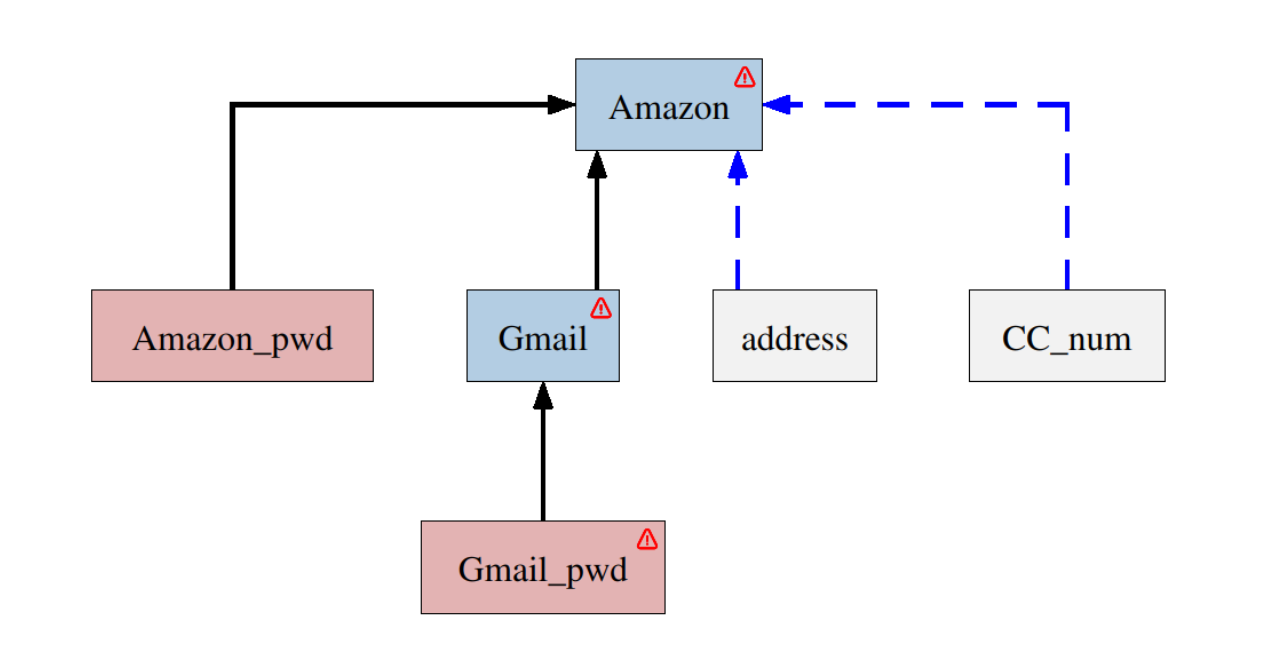
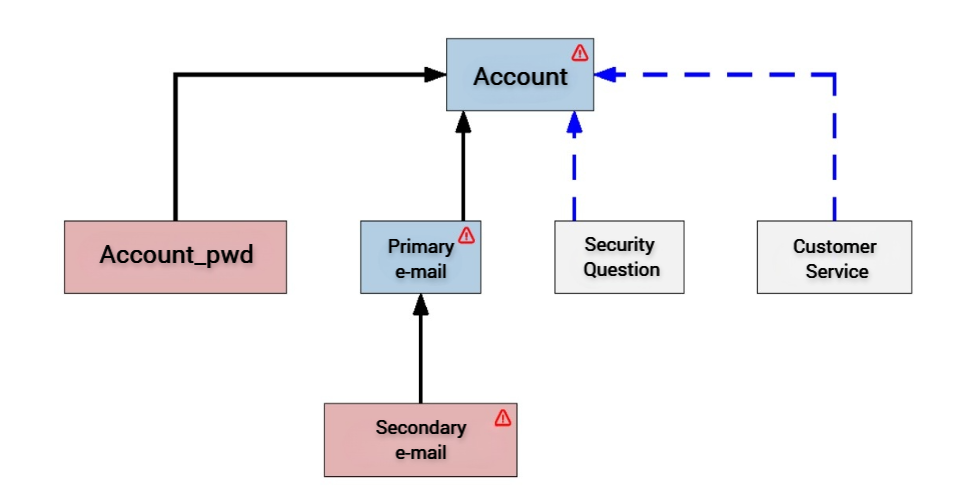
changing context graph

diff --git a/README.md b/README.md
@@ -13,11 +13,3 @@ By Lea:
 - User account ecosystem
 - Graphical representation of a user account ecosystem
 - Home (in header section)
-
----------------------------20.03.2025--Barbara----------------------------------------
-TO DO:
-
-- The Amazon picture close to the Context paragraph is not related to
-the text in the Context paragraph (no security question, secondary
-e-mail, customer service, etc.). The same applies to the pictures
-illustrating the main features of the tool.
